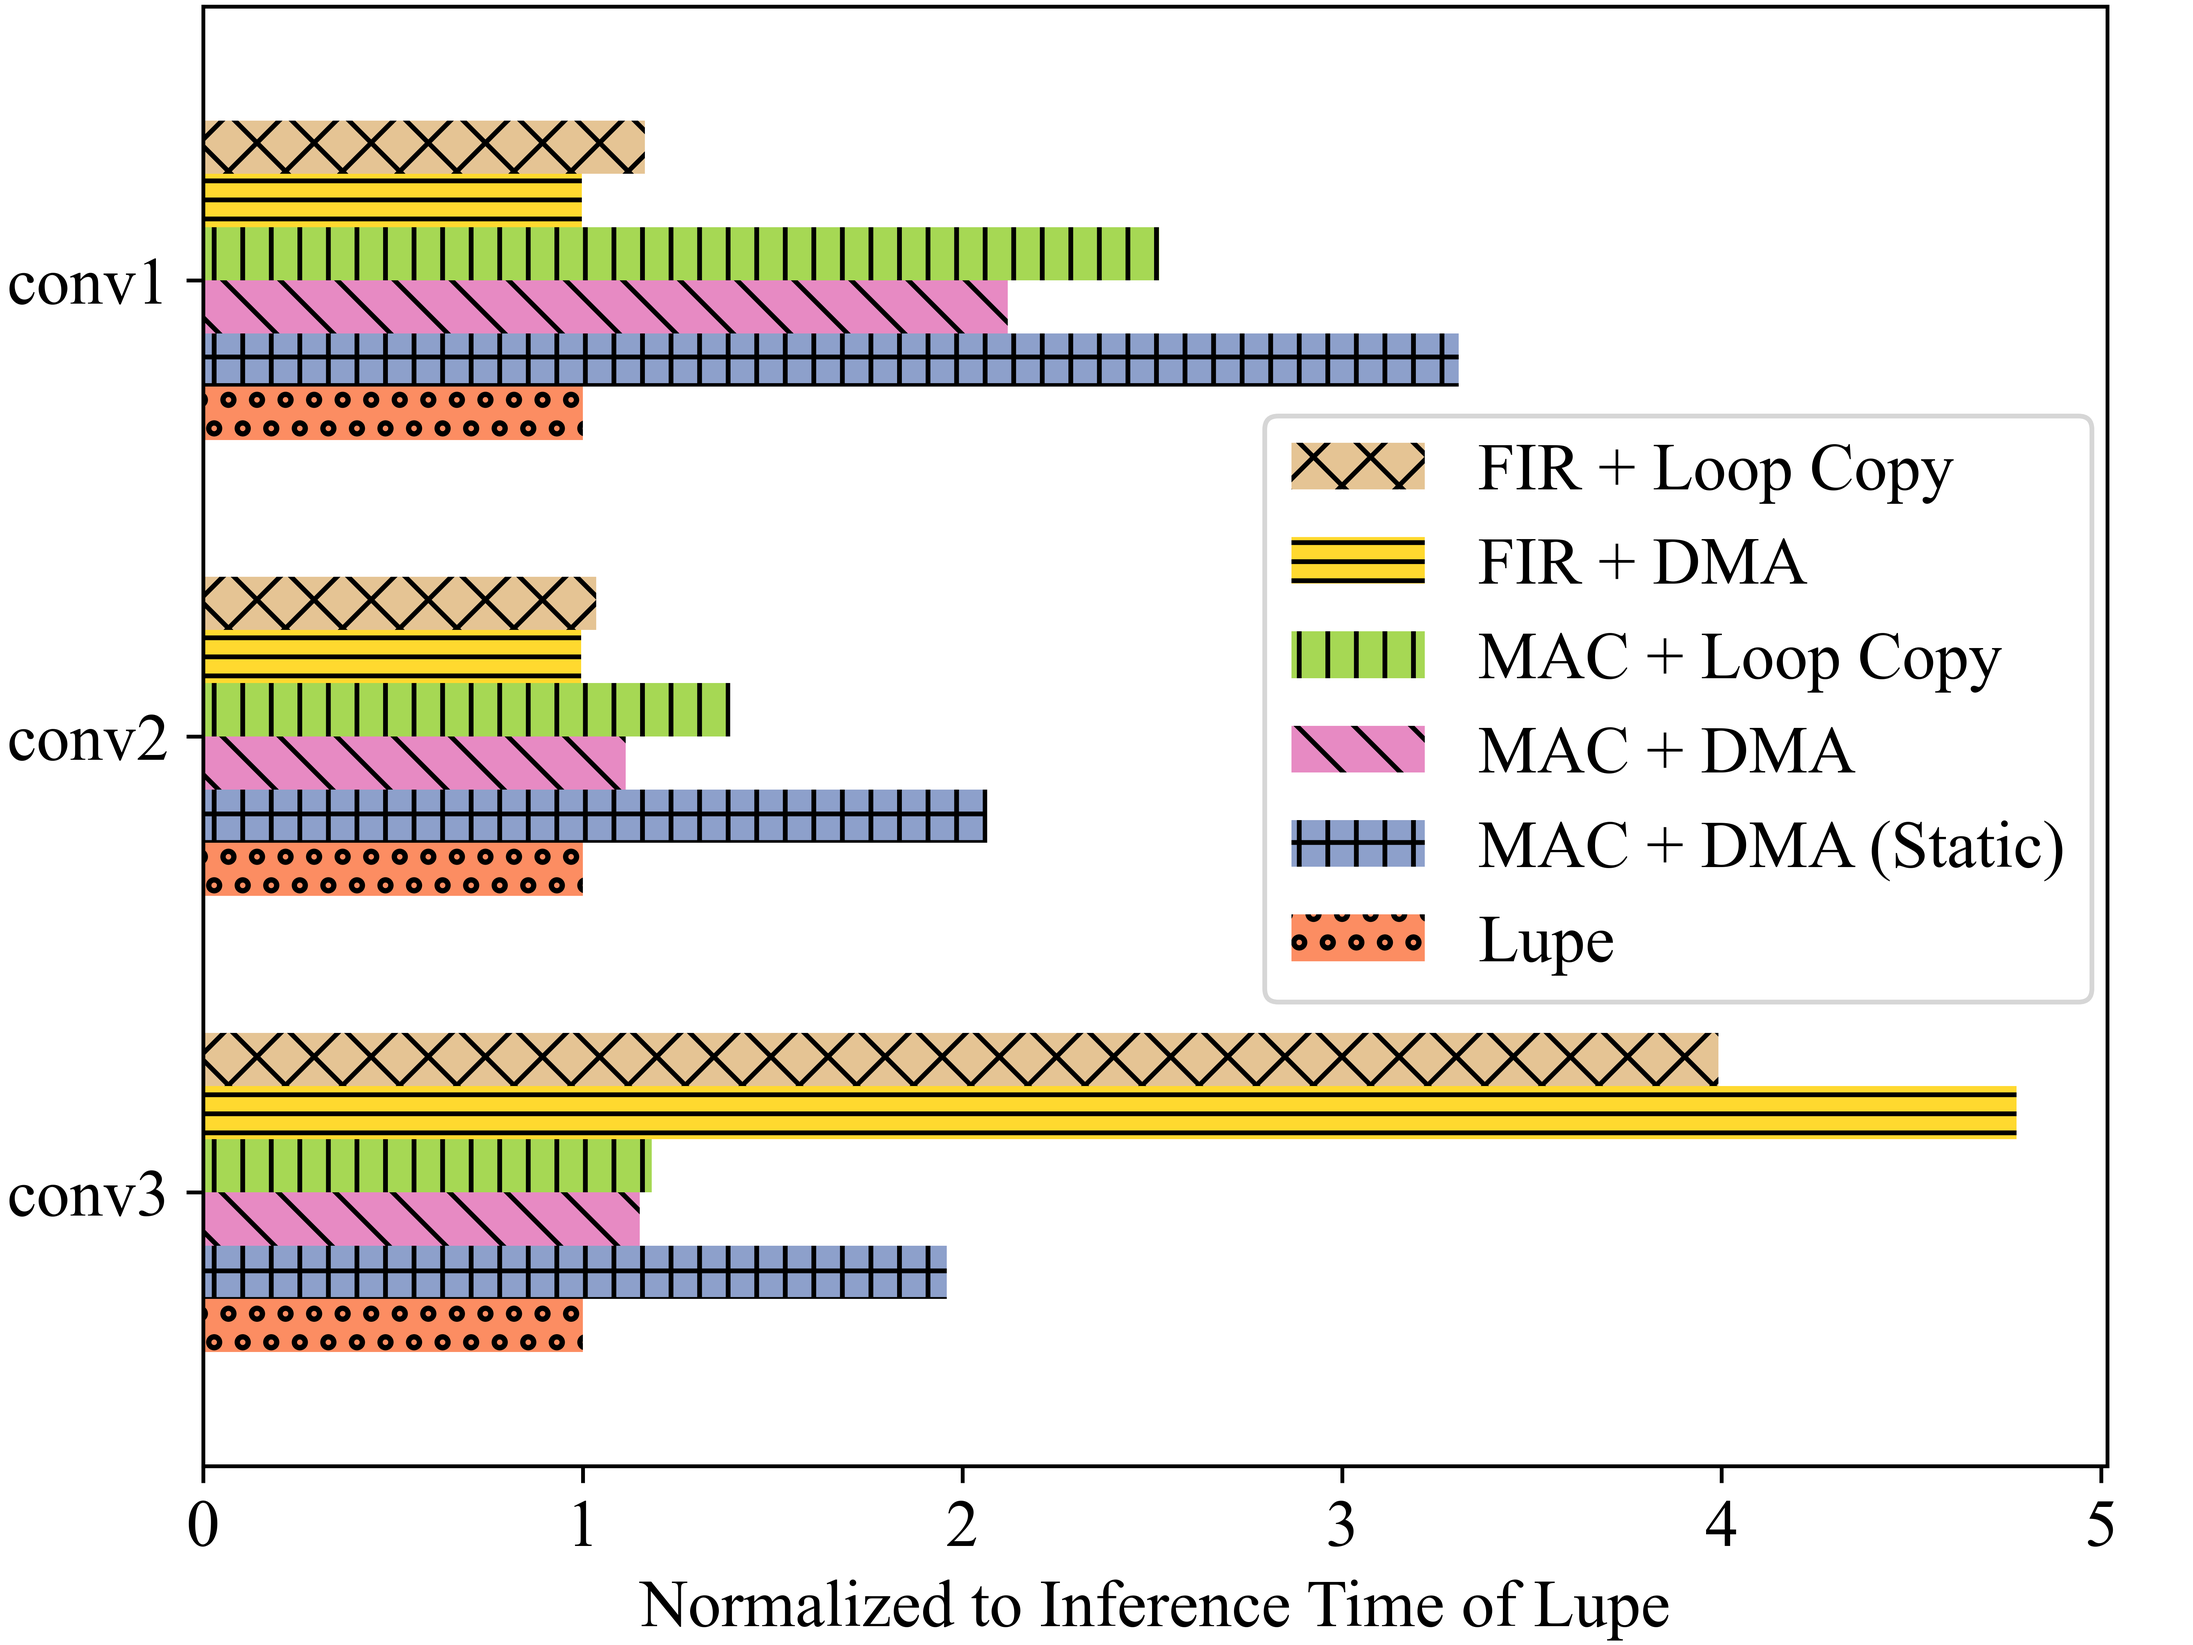
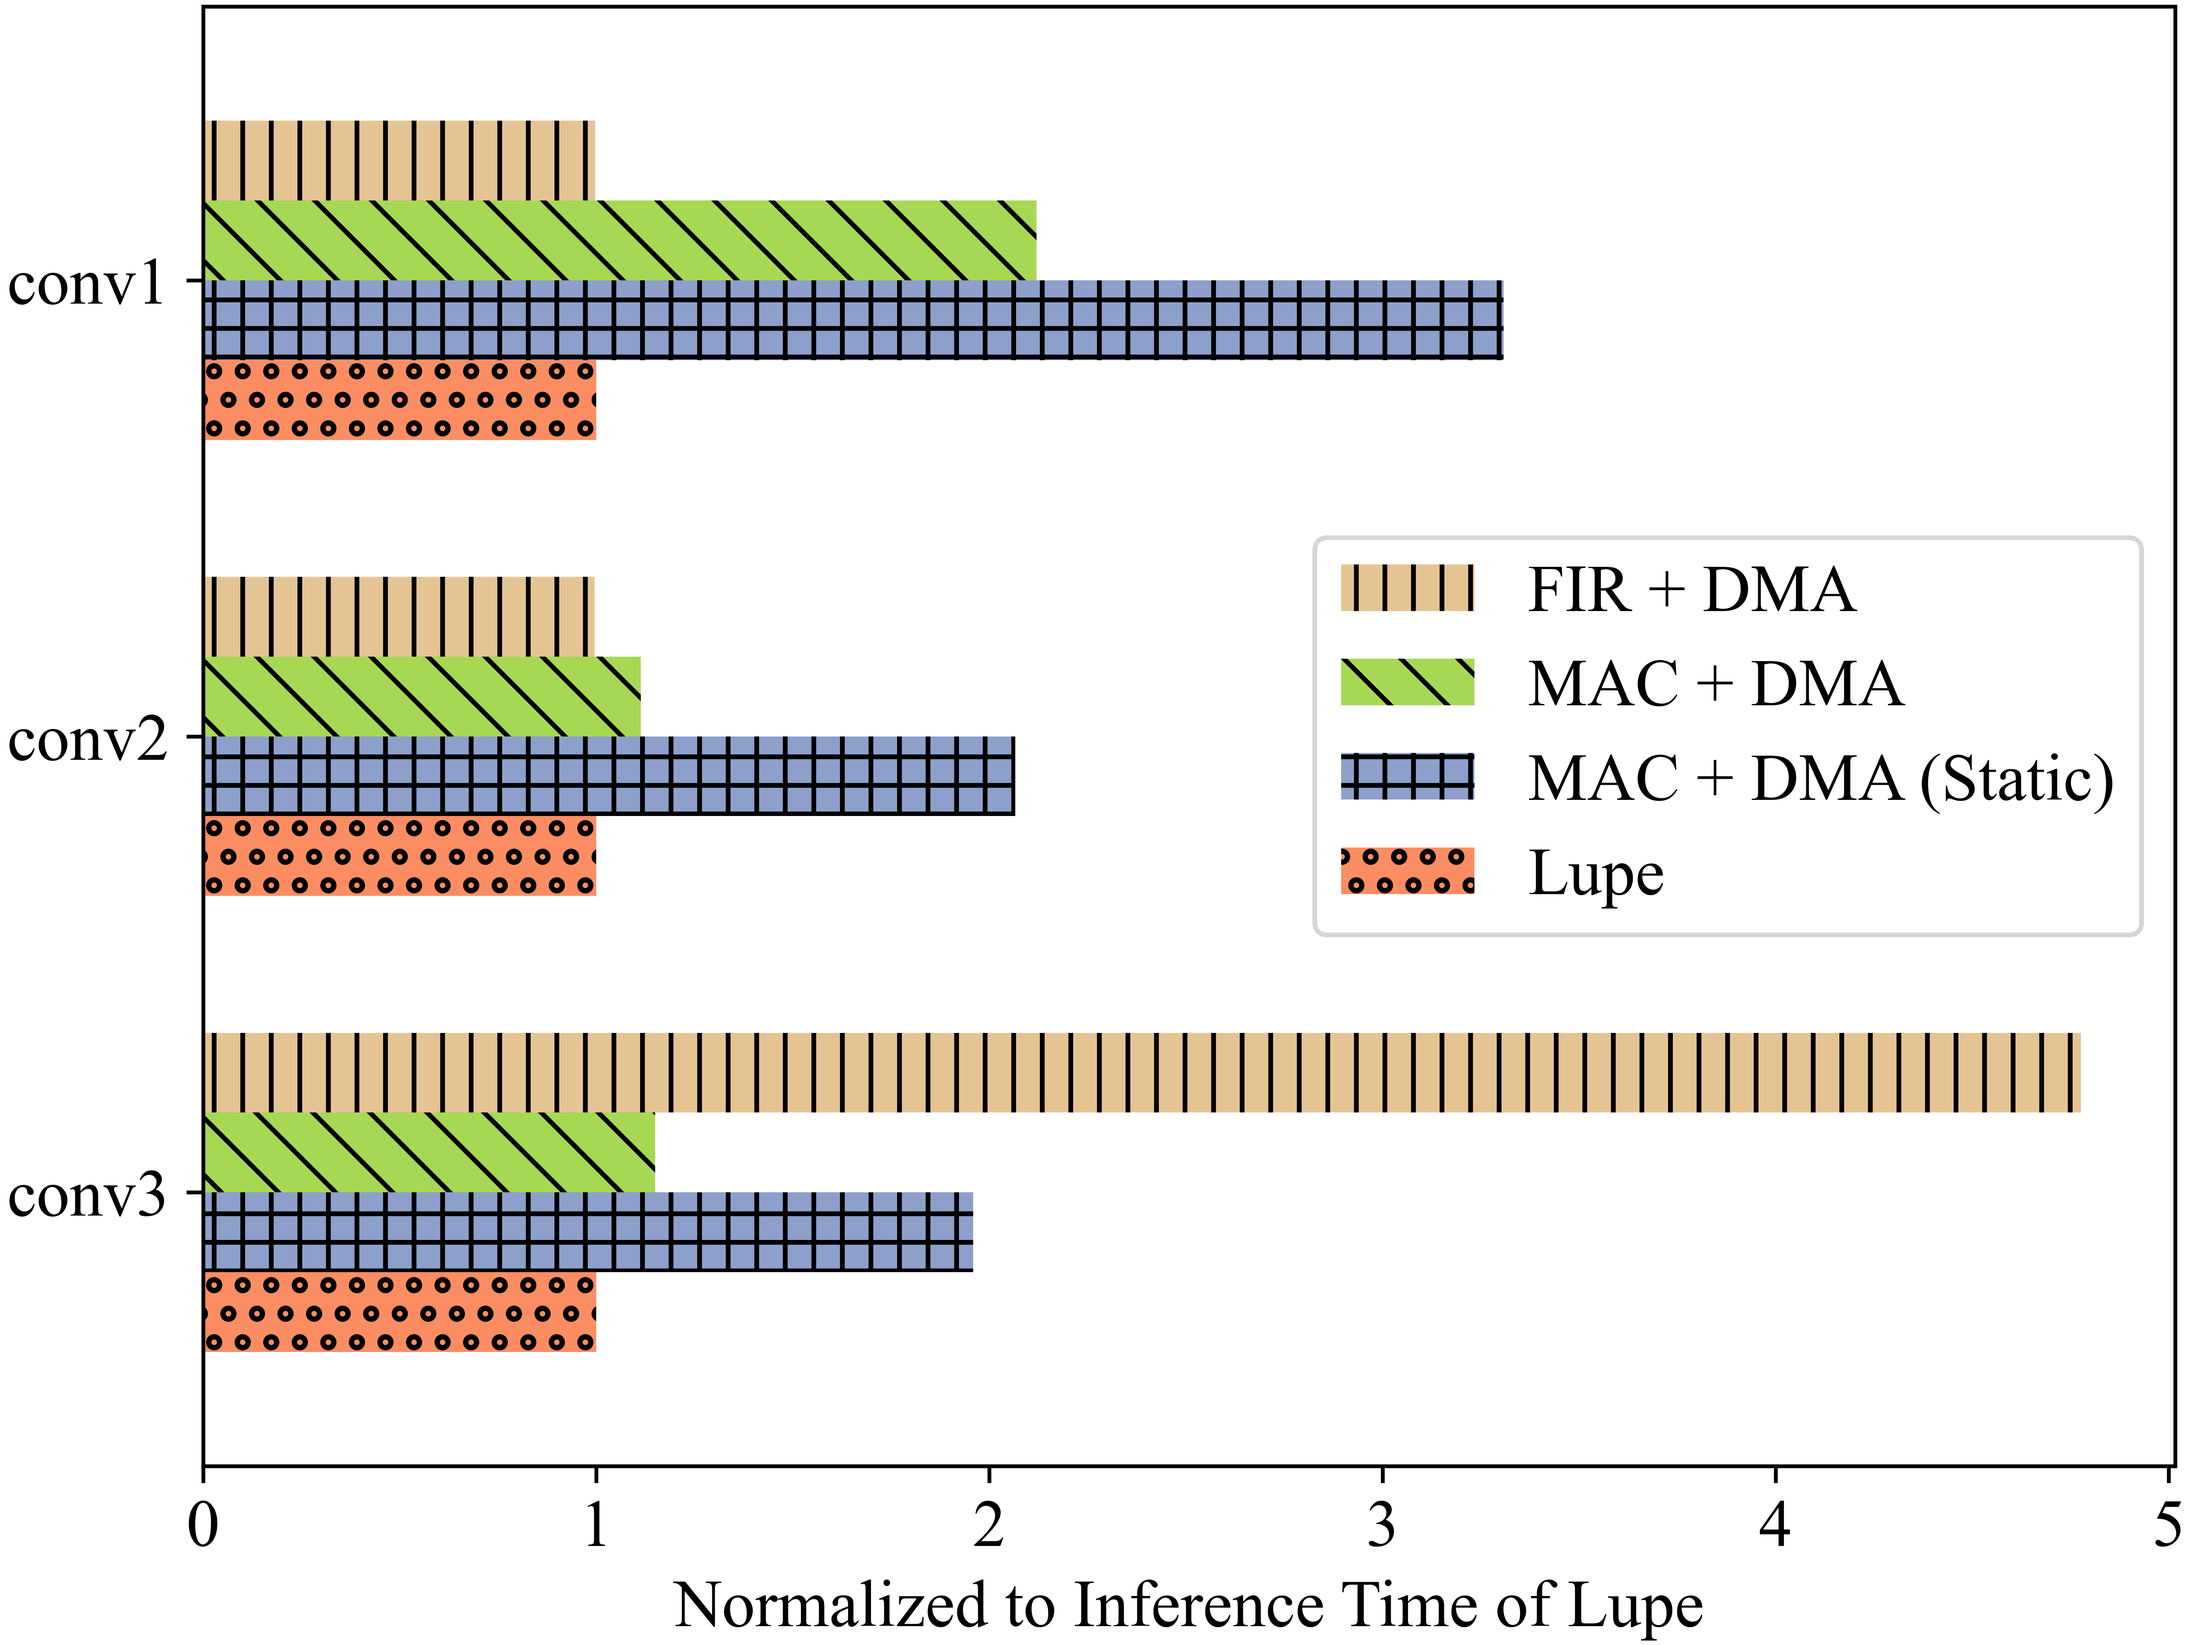
update plot

diff --git a/logs/motivation/cutomized/plot.py b/logs/motivation/cutomized/plot.py
@@ -7,20 +7,30 @@ import matplotlib.colors as mcolors
 
 FREQ = 32767
 
+# time = np.array(
+#     [[6853, 13421, 7882, 8096, 32737, 27353],
+#     [15823, 32684, 17618, 21963, 15751, 16387],
+#     [5448, 18020, 11549, 13722, 5435, 6337]]
+# ).astype('float64')
+
+# no loop unroll
 time = np.array(
-    [[6853, 13421, 7882, 8096, 32737, 27353],
-    [15823, 32684, 17618, 21963, 15751, 16387],
-    [5448, 18020, 11549, 13722, 5435, 6337]]
+    [[6853, 13421, 7882, 32737],
+    [15823, 32684, 17618, 15751],
+    [5448, 18020, 11549, 5435]]
 ).astype('float64')
+
 lupe = time[:, 0].reshape(-1, 1) 
 time = time / lupe
 
 
 time_df = pd.DataFrame(time,
     index=['conv3', 'conv2', 'conv1'],
+    # columns=[
+    #     'Lupe', 'MAC + DMA (Static)', 'MAC + DMA', 'MAC + Loop Copy',
+    #     'FIR + DMA', 'FIR + Loop Copy']
     columns=[
-        'Lupe', 'MAC + DMA (Static)', 'MAC + DMA', 'MAC + Loop Copy',
-        'FIR + DMA', 'FIR + Loop Copy']
+        'Lupe', 'MAC + DMA (Static)', 'MAC + DMA', 'FIR + DMA']
 )
 
 plt.rcParams["font.family"] = "Times New Roman"
@@ -40,7 +50,7 @@ ax = time_df.plot(
 
 bars = ax.patches
 # patterns = [ "/" , "\\" , "|" , "-" , "+" , "x", "o", "O", ".", "*" ]
-patterns = ["oo", "++",  "\\\\" , "||", "---", "xx"]
+patterns = ["oo", "++",  "\\\\" , "||"]
 
 hatches = []
 for p in patterns:
@@ -52,7 +62,7 @@ for bar, hatch in zip(bars, hatches):
 
 ax.set_xlabel('Normalized to Inference Time of Lupe')
 handles, labels = ax.get_legend_handles_labels()
-ax.legend(handles[::-1], labels[::-1], bbox_to_anchor=(0.54, 0.295))
+ax.legend(handles[::-1], labels[::-1], loc='center right')#bbox_to_anchor=(0.54, 0.295))
 
 fig.tight_layout(pad=0.1)
 plt.savefig('lenet_unroll.png', dpi=1000)
